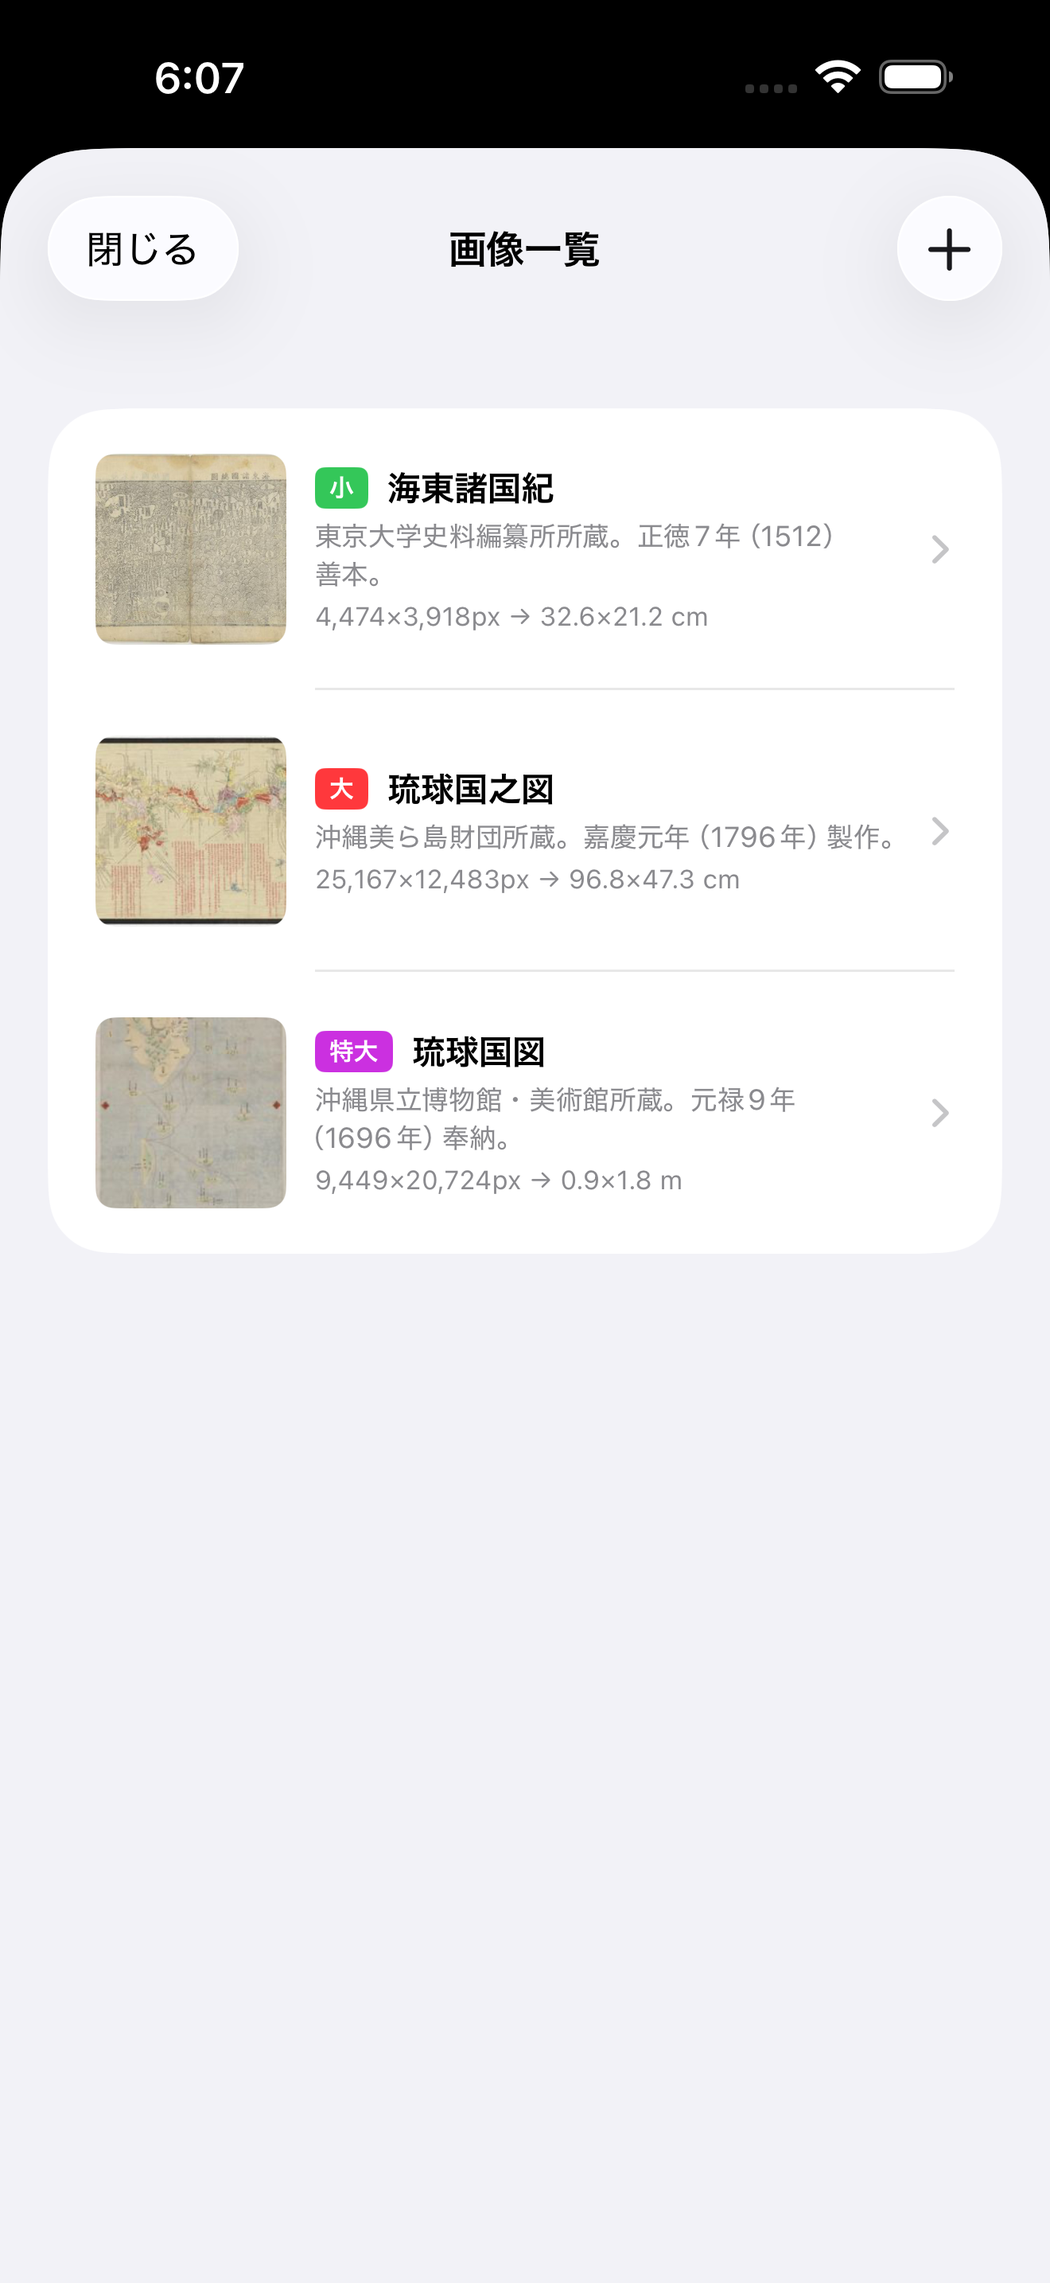
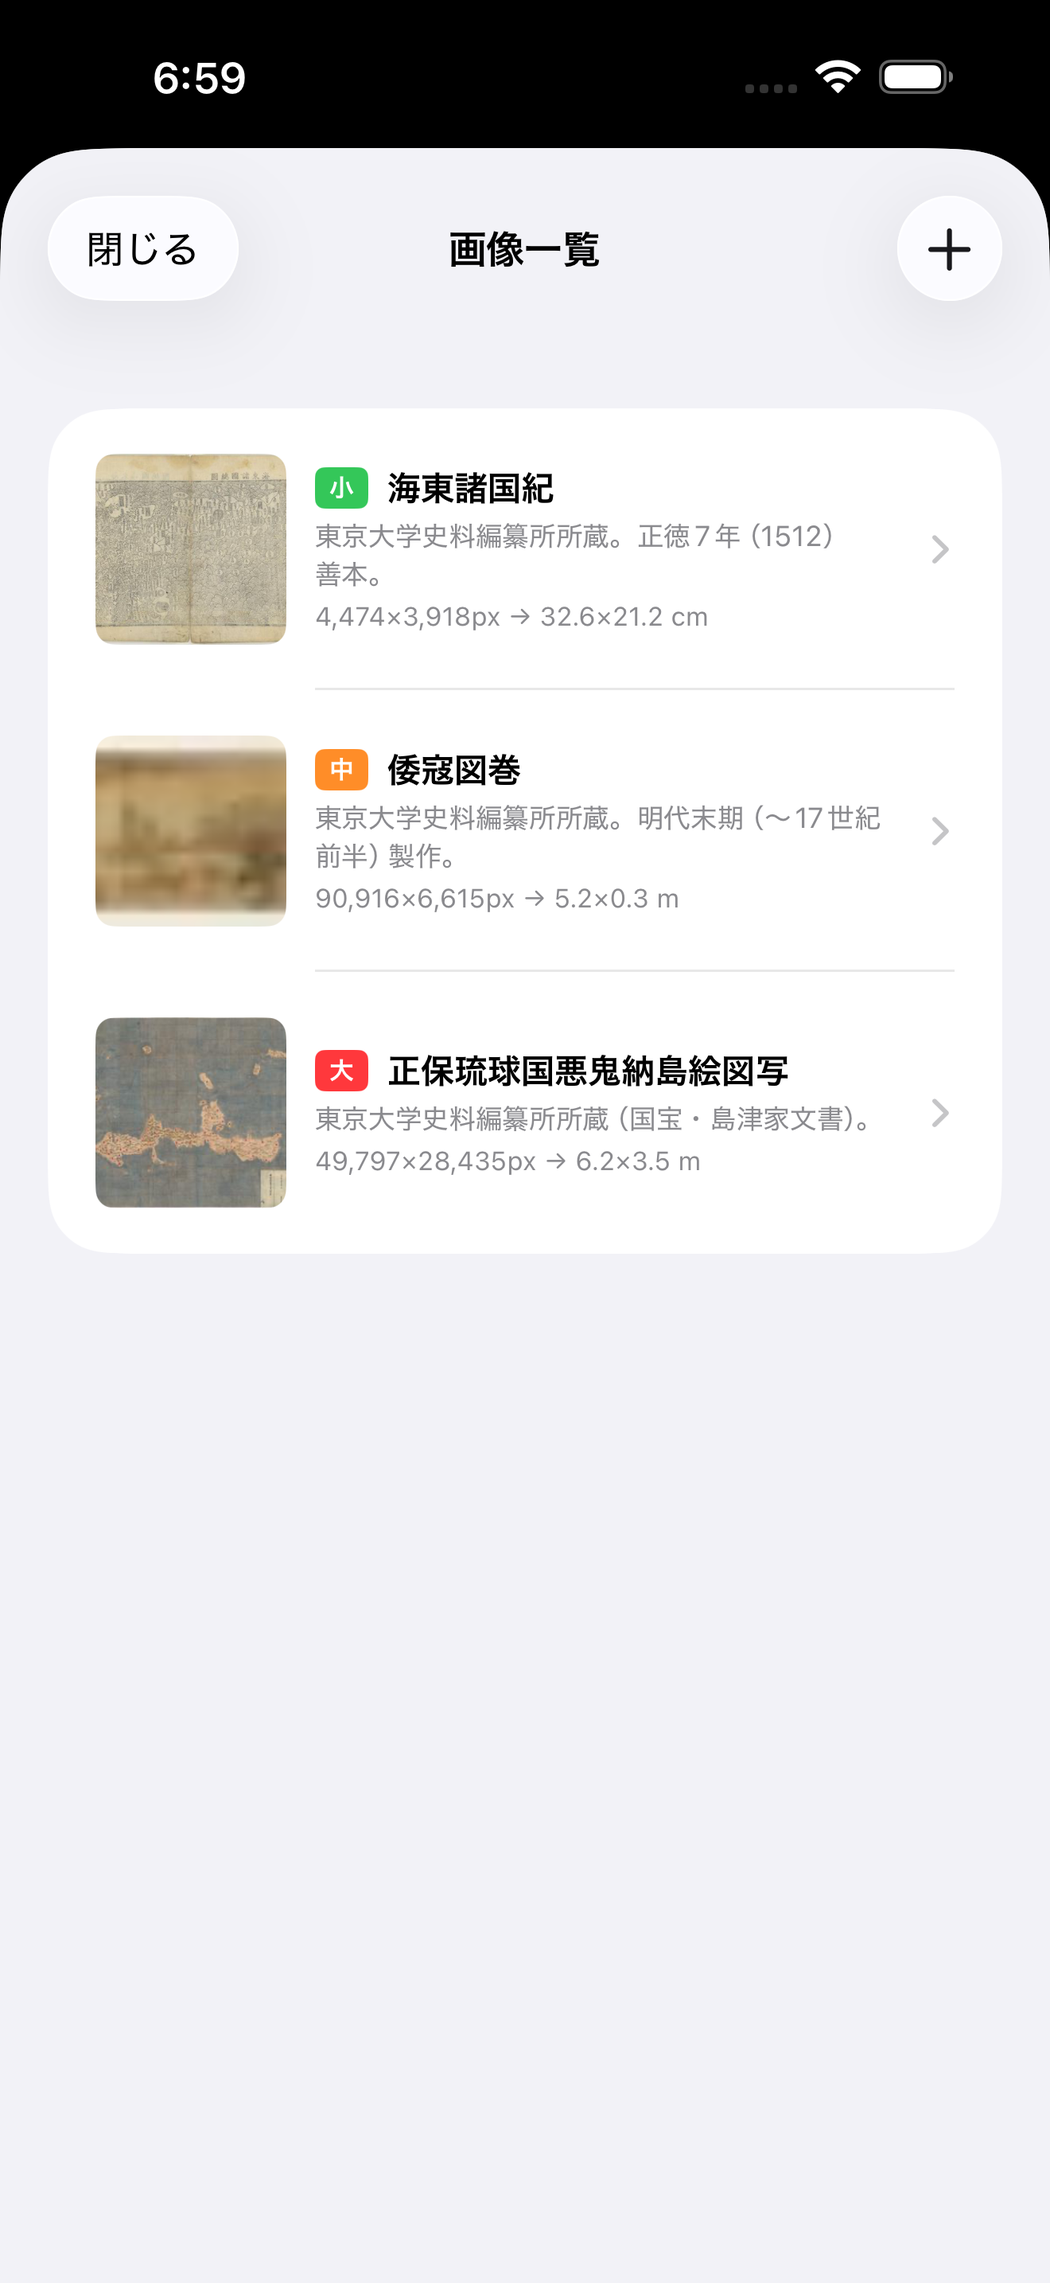
Prepare for App Store submission
- Fix Level 0 IIIF tile URL format (w, instead of w,h)
- Switch to SceneEvents.Update for reliable per-frame tile updates
- Clear previous image when switching samples
- Remove red placement preview (position mismatch)
- Update samples: 小/中/大 labels, add scaleFactors and overviewSize per sample
- Add "ARで配置" prominent button in ImageDetailView
- Generate marketing screenshots (JA/EN × iPhone/iPad = 12 images)
- Enable GitHub Pages for privacy policy and landing page
- Update metadata URLs
- Save non-redistributable sample data in docs/sample_collection.json
- #if DEBUG defaults for opacity/debug settings

Changed region(s): [[0.0932, 0.3103, 0.8386, 0.4034], [0.0932, 0.4344, 0.8076, 0.5275], [0.1864, 0.031, 0.2485, 0.0621]]

diff --git a/IIFAR/Models/SampleImage.swift b/IIFAR/Models/SampleImage.swift
@@ -1,6 +1,6 @@
 import Foundation
 
-struct SampleImage: Identifiable, Hashable {
+struct SampleImage: Identifiable {
     let id: String
     let name: String
     let description: String
@@ -11,6 +11,11 @@ struct SampleImage: Identifiable, Hashable {
     let pixelHeight: Int
     let realWidthCm: Double
     let realHeightCm: Double
+    var tileSize: Int = 512
+    var scaleFactors: [Int] = [1, 2, 4, 8, 16, 32, 64, 128]
+    /// IIIF Level 0 servers only support pre-computed sizes.
+    /// If set, use exact size instead of !max,max syntax.
+    var overviewSize: (w: Int, h: Int)?
 
     var cmPerPixelX: Double { realWidthCm / Double(pixelWidth) }
     var cmPerPixelY: Double { realHeightCm / Double(pixelHeight) }
@@ -29,7 +34,25 @@ struct SampleImage: Identifiable, Hashable {
     }
 
     func iiifImageURL(maxDimension: Int) -> URL? {
+        if let size = overviewSize {
+            // Level 0: use exact pre-computed size
+            let urlString = "\(iiifBaseURL)/full/\(size.w),\(size.h)/0/default.jpg"
+            return URL(string: urlString)
+        }
+        // Level 1+: use best-fit syntax
         let urlString = "\(iiifBaseURL)/full/!\(maxDimension),\(maxDimension)/0/default.jpg"
+        return URL(string: urlString)
+    }
+
+    func iiifThumbnailURL() -> URL? {
+        if let size = overviewSize {
+            // Use a smaller pre-computed size for thumbnail
+            let tw = max(size.w / 2, 1)
+            let th = max(size.h / 2, 1)
+            let urlString = "\(iiifBaseURL)/full/\(tw),\(th)/0/default.jpg"
+            return URL(string: urlString)
+        }
+        let urlString = "\(iiifBaseURL)/full/!400,400/0/default.jpg"
         return URL(string: urlString)
     }
 
@@ -37,7 +60,13 @@ struct SampleImage: Identifiable, Hashable {
         let urlString = "\(iiifBaseURL)/\(region.x),\(region.y),\(region.w),\(region.h)/\(size.w),\(size.h)/0/default.jpg"
         return URL(string: urlString)
     }
+
+    // MARK: - Hashable (based on id only, since overviewSize tuple is not Hashable)
+    static func == (lhs: SampleImage, rhs: SampleImage) -> Bool { lhs.id == rhs.id }
+    func hash(into hasher: inout Hasher) { hasher.combine(id) }
 }
+
+extension SampleImage: Hashable {}
 
 extension SampleImage {
     static let samples: [SampleImage] = [
@@ -54,28 +83,34 @@ extension SampleImage {
             realHeightCm: 21.2
         ),
         SampleImage(
-            id: "sho",
-            name: "琉球国之図",
-            description: "沖縄美ら島財団所蔵。嘉慶元年（1796年）製作。",
-            detail: "嘉慶元年（1796年）に琉球独自の測量技術で作られた精密な絵図で、首里王府の命により測量家の高原景宅が製作したと考えられています。沖縄本島と周辺諸島を描き、間切や島ごとに美しく塗り分けられた芸術作品としての価値も備えた歴史史料です。",
-            sizeLabel: "大",
-            iiifBaseURL: "https://cantaloupe.lab.hi.u-tokyo.ac.jp/iiif/2/clioimg%2Fsho.tif",
-            pixelWidth: 25167,
-            pixelHeight: 12483,
-            realWidthCm: 96.8,
-            realHeightCm: 47.3
+            id: "wakozukan",
+            name: "倭寇図巻",
+            description: "東京大学史料編纂所所蔵。明代末期（〜17世紀前半）製作。",
+            detail: "20世紀初頭に中国から日本に渡った絵巻で、倭寇との戦いを着色で描いた唯一の史料として教科書にもしばしば掲載されてきました。元の題簽「明仇十洲台湾奏凱図」は内容にそぐわないとして、史料編纂所入架時に「倭寇図巻」と改称。中国国家博物館所蔵「抗倭図巻」との関連が近年の研究で明らかにされています。",
+            sizeLabel: "中",
+            iiifBaseURL: "https://www.hi.u-tokyo.ac.jp/collection/digitalgallery/wakozukan/data/files/tile/wakozukan",
+            pixelWidth: 90916,
+            pixelHeight: 6615,
+            realWidthCm: 523.0,
+            realHeightCm: 32.0,
+            tileSize: 1024,
+            scaleFactors: [1, 2, 4, 8, 16, 32, 64],
+            overviewSize: (w: 710, h: 52)
         ),
         SampleImage(
-            id: "ryukyu",
-            name: "琉球国図",
-            description: "沖縄県立博物館・美術館所蔵。元禄9年（1696年）奉納。",
-            detail: "縦175.8cm、横87.8cmにおよぶ掛幅の大型絵図です。元禄9年（1696）に大宰府天満宮に奉納されたもので、九州南部から沖縄本島を中心とする琉球の島々と航路が描かれています。「海東諸国紀」所収図と近似しつつも、より多くの情報を含み、1453年に博多商人道安から朝鮮王朝に献上された絵図の系譜に近いと推測されています。現状は南を上にして仕立てられています。",
-            sizeLabel: "特大",
-            iiifBaseURL: "https://cantaloupe.lab.hi.u-tokyo.ac.jp/iiif/2/clioimg%2Fcbd4f3b8-e6ec-4c15-9ffc-79badb88127f.tif",
-            pixelWidth: 9449,
-            pixelHeight: 20724,
-            realWidthCm: 87.8,
-            realHeightCm: 175.8
+            id: "shoho",
+            name: "正保琉球国悪鬼納島絵図写",
+            description: "東京大学史料編纂所所蔵（国宝・島津家文書）。",
+            detail: "正保の国絵図は1644年に江戸幕府が全国に命じて製作を開始した国ごとの絵図です。琉球国絵図は奄美諸島〜八重山諸島までの島々を3舗に分けて仕上げた大型絵図で、幕府提出の原本は所在不明ですが、約50年後に薩摩藩が原寸大で忠実に写したものが東京大学史料編纂所の国宝「島津家文書」に残っています。大型琉球絵図としては最古のもので、地形・地名・石高・交通など豊富な情報が盛り込まれています。本図は3舗のうち②悪鬼納島（沖縄本島）の絵図です。",
+            sizeLabel: "大",
+            iiifBaseURL: "https://www.hi.u-tokyo.ac.jp/collection/digitalgallery/ryukyu/data/files/tile/0002",
+            pixelWidth: 49797,
+            pixelHeight: 28435,
+            realWidthCm: 621.6,
+            realHeightCm: 353.7,
+            tileSize: 1024,
+            scaleFactors: [1, 2, 4, 8, 16, 32],
+            overviewSize: (w: 778, h: 444)
         ),
     ]
 }

diff --git a/IIFAR/AR/ARViewContainer.swift b/IIFAR/AR/ARViewContainer.swift
@@ -1,6 +1,7 @@
 import SwiftUI
 import ARKit
 import RealityKit
+import Combine
 
 struct ARViewContainer: UIViewRepresentable {
     @ObservedObject var arManager: ARManager
@@ -24,6 +25,13 @@ struct ARViewContainer: UIViewRepresentable {
 
         context.coordinator.arView = arView
         arView.session.delegate = context.coordinator
+
+        // Use SceneEvents.Update for per-frame tile updates (more reliable than ARSessionDelegate)
+        context.coordinator.sceneUpdateSubscription = arView.scene.subscribe(
+            to: SceneEvents.Update.self
+        ) { [weak coordinator = context.coordinator] event in
+            coordinator?.onSceneUpdate()
+        }
 
         let tapGesture = UITapGestureRecognizer(
             target: context.coordinator,
@@ -71,6 +79,7 @@ struct ARViewContainer: UIViewRepresentable {
         private var showCustomPlanes = true
         private var cachedTexture: TextureResource?
         private var tileManager: TileManager?
+        var sceneUpdateSubscription: Cancellable?
         private var previewAnchor: AnchorEntity?
         private var previewCorners: [ModelEntity] = []
         private var previewEdges: [ModelEntity] = []
@@ -123,17 +132,14 @@ struct ARViewContainer: UIViewRepresentable {
         }
 
         func session(_ session: ARSession, didUpdate frame: ARFrame) {
+            // Handled by onSceneUpdate() via SceneEvents.Update
+        }
+
+        func onSceneUpdate() {
             guard let arView = arView else { return }
 
-            // Placement preview: show red corner markers before tap
-            if arManager.currentImage != nil && !arManager.isPlaced {
-                updatePlacementPreview(in: arView)
-            } else if previewAnchor != nil {
-                // Ensure preview is removed after placement
-                removePlacementPreview()
-            }
-
-            guard let tileManager = tileManager else { return }
+            guard let tileManager = tileManager,
+                  let frame = arView.session.currentFrame else { return }
 
             let cameraTransform = frame.camera.transform
             let viewportSize = arView.bounds.size
@@ -145,7 +151,6 @@ struct ARViewContainer: UIViewRepresentable {
                 zFar: 1000
             )
 
-            // Compute anchor world transform from contentContainer or imageAnchor
             let anchorTransform: simd_float4x4
             if let container = contentContainer {
                 anchorTransform = container.transformMatrix(relativeTo: nil)

diff --git a/IIFAR/Views/ImageDetailView.swift b/IIFAR/Views/ImageDetailView.swift
@@ -2,6 +2,8 @@ import SwiftUI
 
 struct ImageDetailView: View {
     let sample: SampleImage
+    @ObservedObject var arManager: ARManager
+    @Binding var isGalleryPresented: Bool
     @State private var image: UIImage?
     @State private var isLoading = true
 
@@ -19,6 +21,22 @@ struct ImageDetailView: View {
                         ProgressView()
                             .frame(maxWidth: .infinity, minHeight: 200)
                     }
+                }
+
+                // AR placement button - prominent
+                Button {
+                    isGalleryPresented = false
+                    Task {
+                        await arManager.loadSample(sample)
+                    }
+                } label: {
+                    Label("ARで配置", systemImage: "arkit")
+                        .font(.headline)
+                        .frame(maxWidth: .infinity)
+                        .padding(.vertical, 14)
+                        .background(.blue)
+                        .foregroundColor(.white)
+                        .cornerRadius(12)
                 }
 
                 // Size badge
@@ -41,15 +59,14 @@ struct ImageDetailView: View {
                     .font(.body)
 
                 // Technical info
-                Section {
+                VStack(alignment: .leading, spacing: 8) {
+                    Text("技術情報")
+                        .font(.headline)
+                        .padding(.top, 8)
                     InfoRow(label: "ピクセル", value: "\(sample.pixelWidth)×\(sample.pixelHeight)")
                     InfoRow(label: "実寸", value: sample.sizeDescription)
                     InfoRow(label: "cm/px (横)", value: String(format: "%.4f", sample.cmPerPixelX))
                     InfoRow(label: "cm/px (縦)", value: String(format: "%.4f", sample.cmPerPixelY))
-                } header: {
-                    Text("技術情報")
-                        .font(.headline)
-                        .padding(.top, 8)
                 }
             }
             .padding()
@@ -68,7 +85,6 @@ struct ImageDetailView: View {
         case "小": return .green
         case "中": return .orange
         case "大": return .red
-        case "特大": return .purple
         default: return .gray
         }
     }

diff --git a/IIFAR/Tile/TileFetcher.swift b/IIFAR/Tile/TileFetcher.swift
@@ -37,23 +37,40 @@ actor TileFetcher {
 
         let region = grid.iiifRegion(for: key)
         let size = grid.iiifSize(for: key)
-        let urlString = "\(baseURL)/\(region.x),\(region.y),\(region.w),\(region.h)/\(size.w),\(size.h)/0/default.jpg"
+        // Use "w," format (width only) for broader IIIF Level 0 server compatibility
+        let urlString = "\(baseURL)/\(region.x),\(region.y),\(region.w),\(region.h)/\(size.w),/0/default.jpg"
 
-        guard let url = URL(string: urlString) else { return nil }
+        guard let url = URL(string: urlString) else {
+            print("[TileFetcher] Invalid URL: \(urlString)")
+            return nil
+        }
+
+        print("[TileFetcher] Fetching sf=\(key.scaleFactor) tile(\(key.tileX),\(key.tileY)) URL: \(urlString)")
 
         do {
             let (data, response) = try await session.data(from: url)
-            guard let httpResp = response as? HTTPURLResponse,
-                  (200..<300).contains(httpResp.statusCode) else { return nil }
+            guard let httpResp = response as? HTTPURLResponse else {
+                print("[TileFetcher] No HTTP response")
+                return nil
+            }
+            guard (200..<300).contains(httpResp.statusCode) else {
+                print("[TileFetcher] HTTP \(httpResp.statusCode) for \(urlString)")
+                return nil
+            }
             guard let uiImage = UIImage(data: data),
-                  let cgImage = uiImage.cgImage else { return nil }
+                  let cgImage = uiImage.cgImage else {
+                print("[TileFetcher] Invalid image data (\(data.count) bytes)")
+                return nil
+            }
 
             let texture = try TextureResource.generate(
                 from: cgImage,
                 options: .init(semantic: .color)
             )
+            print("[TileFetcher] OK sf=\(key.scaleFactor) tile(\(key.tileX),\(key.tileY)) \(data.count) bytes")
             return texture
         } catch {
+            print("[TileFetcher] Error: \(error.localizedDescription)")
             return nil
         }
     }

diff --git a/IIFAR/AR/ARManager.swift b/IIFAR/AR/ARManager.swift
@@ -9,14 +9,19 @@ class ARManager: ObservableObject {
     @Published var placedImageInfo: String?
     @Published var isLoading = false
     @Published var isPlaced = false
+    #if DEBUG
     @Published var opacity: Double = 0.7
-    @Published var poleHeight: Double = 1.0
-    @Published var imageRotation: Double = 0
-
-    // Debug settings
     @Published var showCornerPoles = true { didSet { onDebugSettingsChanged?() } }
     @Published var showPlaneDetection = true { didSet { onDebugSettingsChanged?() } }
     @Published var showImageInfo = true
+    #else
+    @Published var opacity: Double = 1.0
+    @Published var showCornerPoles = false { didSet { onDebugSettingsChanged?() } }
+    @Published var showPlaneDetection = false { didSet { onDebugSettingsChanged?() } }
+    @Published var showImageInfo = false
+    #endif
+    @Published var poleHeight: Double = 1.0
+    @Published var imageRotation: Double = 0
 
     // Tile debug info
     @Published var currentZoomLevel: Int = 0
@@ -34,6 +39,11 @@ class ARManager: ObservableObject {
     var onDebugSettingsChanged: (() -> Void)?
 
     func loadSample(_ sample: SampleImage) async {
+        // Clear previous image first
+        if currentImage != nil {
+            currentImage = nil
+            onImageUpdated?()
+        }
         isLoading = true
         isPlaced = false
         currentSample = sample

diff --git a/IIFAR/Tile/TileManager.swift b/IIFAR/Tile/TileManager.swift
@@ -32,10 +32,11 @@ final class TileManager {
         self.imageWidthMeters = Float(sample.realWidthMeters)
         self.imageHeightMeters = Float(sample.realHeightMeters)
 
-        let factors = [1, 2, 4, 8, 16, 32, 64, 128]
+        let factors = sample.scaleFactors
         self.grid = TileGrid(
             imageWidth: sample.pixelWidth,
             imageHeight: sample.pixelHeight,
+            tileSize: sample.tileSize,
             scaleFactors: factors
         )
         self.zoomMapper = ZoomLevelMapper(scaleFactors: factors)
@@ -78,6 +79,11 @@ final class TileManager {
         )
 
         arManager?.visibleTileCount = visible.count
+
+        // Debug log (throttled - only when sf changes or first time)
+        if sf != currentScaleFactor || tileEntities.isEmpty {
+            print("[TileManager] dist=\(String(format:"%.2f",distance))m sf=\(sf) visible=\(visible.count) cached=\(tileEntities.count) grid=\(grid.columns(at: sf))x\(grid.rows(at: sf))")
+        }
 
         // For cached tiles, create entity on demand (no transparent placeholders)
         var loadedCount = 0

diff --git a/IIFAR/Views/GalleryView.swift b/IIFAR/Views/GalleryView.swift
@@ -11,17 +11,11 @@ struct GalleryView: View {
             List {
                 ForEach(SampleImage.samples) { sample in
                     NavigationLink {
-                        ImageDetailView(sample: sample)
-                            .toolbar {
-                                ToolbarItem(placement: .confirmationAction) {
-                                    Button("ARで配置") {
-                                        isPresented = false
-                                        Task {
-                                            await arManager.loadSample(sample)
-                                        }
-                                    }
-                                }
-                            }
+                        ImageDetailView(
+                            sample: sample,
+                            arManager: arManager,
+                            isGalleryPresented: $isPresented
+                        )
                     } label: {
                         SampleRow(sample: sample, thumbnail: thumbnails[sample.id])
                     }

diff --git a/IIFAR/Models/IIIFService.swift b/IIFAR/Models/IIIFService.swift
@@ -85,6 +85,20 @@ actor IIIFService {
 
     /// Fetch a thumbnail (small) for preview. Falls back to dummy.
     func fetchThumbnail(from sample: SampleImage) async -> UIImage {
+        // For Level 0 servers, use the thumbnail URL with pre-computed sizes
+        if let thumbURL = sample.iiifThumbnailURL() {
+            let key = cacheKey(sampleID: sample.id, maxDimension: 400)
+            if let cached = cachedImage(for: key) { return cached }
+            do {
+                let (data, response) = try await session.data(from: thumbURL)
+                if let httpResponse = response as? HTTPURLResponse,
+                   (200..<300).contains(httpResponse.statusCode),
+                   let image = UIImage(data: data) {
+                    storeImage(image, for: key)
+                    return image
+                }
+            } catch {}
+        }
         do {
             return try await fetchImage(from: sample, maxDimension: 400)
         } catch {

diff --git a/docs/appstore-metadata.md b/docs/appstore-metadata.md
@@ -104,7 +104,7 @@ https://github.com/nakamura196/iiif-ar-ios/issues
 ## マーケティングURL（アプリ紹介ページ）
 
 ```
-TODO: ランディングページを作成後にURLを設定する
+https://nakamura196.github.io/iiif-ar-ios/
 ```
 
 ## プライバシーポリシーURL
